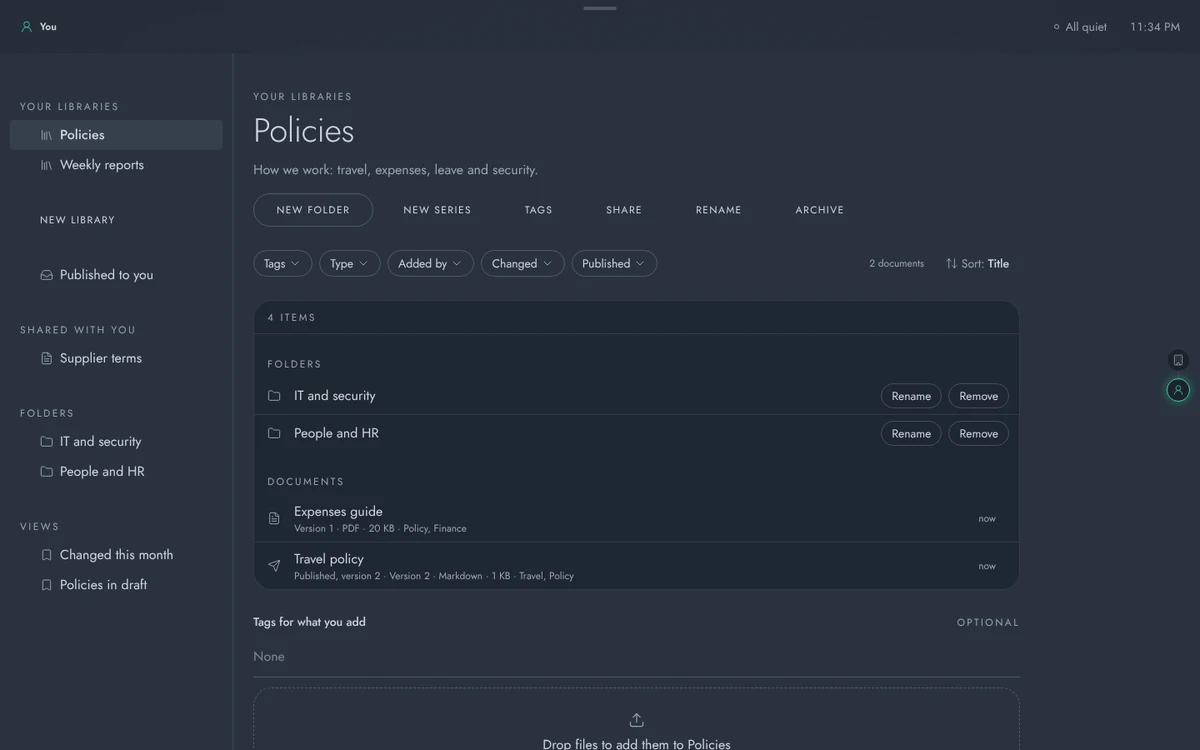
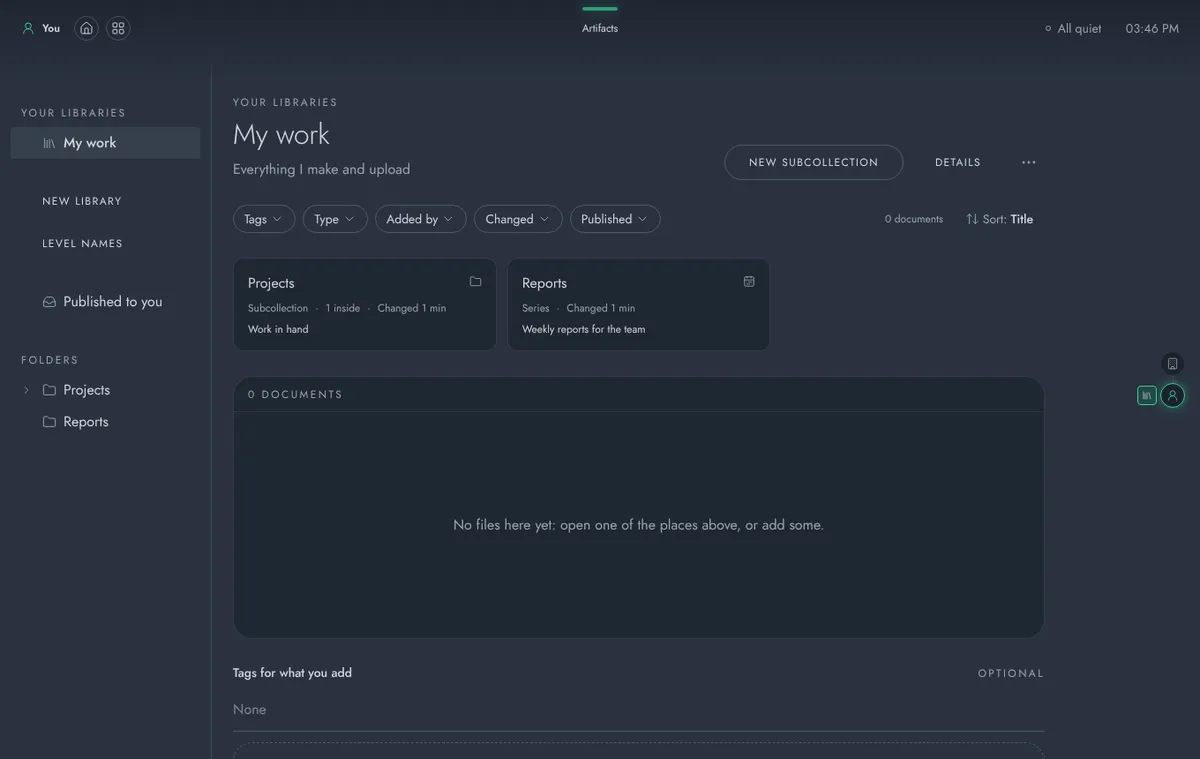
Artifacts guide: units, lifecycle, publishing up, links, with new screenshots
docs/folio.md now describes one shape for every library (and Level names),
the file lifecycle, publishing up the floors (live window, further up, one
owner, one place, taking back, From below), links, and folder tags and
sharing, with new screenshots from the running app. A floor's name reads in
a sentence ("Up from your own floor"), and the reader's link to where a
file sits is styled as a quiet link. Part of PER-171.

Claude-Session: https://claude.ai/code/session_01WJNQkabRVoF72vhqnMf8Xc

diff --git a/apps/folio/frontend/src/folio-share.ts b/apps/folio/frontend/src/folio-share.ts
@@ -53,7 +53,7 @@ export const explainPayload = (access: Access, thing: { id: string; title: strin
         level: 'read' as const,
         since: p.at,
         via: p.record.id === thing.id ? 'published up to them' : 'published up inside something',
-        chain: p.chain,
+        chain: p.chain.map(inSentence),
         shows: p.filter.map(stateName),
       })),
       ...access.grants.map((g) => shared(g, `shared with this ${thing.kind}`)),
@@ -65,9 +65,12 @@ export const explainPayload = (access: Access, thing: { id: string; title: strin
 /** A list in words: "Complete", "Complete and Issued", "In review, Complete and Issued". */
 const listWords = (list: readonly string[]) => (list.length < 2 ? (list[0] ?? '') : `${list.slice(0, -1).join(', ')} and ${list.at(-1)}`);
 
+/** A floor's name in the middle of a sentence: "your own floor" and "the org" aren't names. */
+const inSentence = (floor: string) => (floor === 'Your own floor' || floor === 'The org' ? floor[0].toLowerCase() + floor.slice(1) : floor);
+
 /** How a step up the floors reaches them: "Up from Payroll through Finance · Shows Complete and Issued". */
 export const upLine = (p: { chain: readonly string[]; filter: readonly ContentState[] }) => {
-  const [from, ...through] = p.chain;
+  const [from, ...through] = p.chain.map(inSentence);
   return [from ? `Up from ${from}${through.length ? ` through ${listWords(through)}` : ''}` : '', `Shows ${listWords(p.filter.map(stateName))}`].filter(Boolean).join(' · ');
 };
 

diff --git a/apps/folio/frontend/src/folio-reader.ts b/apps/folio/frontend/src/folio-reader.ts
@@ -420,6 +420,9 @@ export class FolioReader extends LitElement {
         folio-reader .label { font-size: var(--type-label); line-height: var(--leading-label); letter-spacing: var(--tracking-label); text-transform: uppercase; color: var(--ink-muted); }
         folio-reader .folio-link { all: unset; cursor: pointer; text-decoration: underline; text-underline-offset: 3px; }
         folio-reader .folio-link:focus-visible { outline: 1.5px solid var(--focus); outline-offset: 2px; }
+        folio-reader .folio-crumb { all: unset; cursor: pointer; font-size: var(--type-small); color: var(--ink-muted); }
+        folio-reader .folio-crumb:hover { color: var(--ink); text-decoration: underline; text-underline-offset: 3px; }
+        folio-reader .folio-crumb:focus-visible { outline: 1.5px solid var(--focus); outline-offset: 2px; }
         @media (max-width: 1100px) {
           folio-reader { grid-template-columns: minmax(0, 1fr); }
           folio-reader .folio-reader-contents, folio-reader .folio-reader-side { position: static; max-height: none; }

diff --git a/docs/folio.md b/docs/folio.md
@@ -1,17 +1,19 @@
 # Artifacts: a guide for people and admins
 
-Artifacts is AUGUR's document libraries. (Its code name is Folio, which is still the name of its containers, its database schema and its address, `/folio`.) Every deployment runs it. It keeps a floor's documents in one place, shows each one as a page you can read, and puts the finished ones out to the people who need them.
+Artifacts is AUGUR's document libraries. (Its code name is Folio, which is still the name of its containers, its database schema and its address, `/folio`.) Every deployment runs it. It keeps a floor's documents in one place with the same shape everywhere, shows each one as a page you can read, and publishes them up the floors to the people who need them, in the states you choose.
 
 The first half of this guide is for everyone who uses it. The second half is for admins. How Artifacts is built, and its API, are in [its README](../apps/folio/README.md).
 
 - [Using Artifacts](#using-artifacts)
   - [Getting around](#getting-around)
-  - [Libraries and folders](#libraries-and-folders)
+  - [Libraries and their shape](#libraries-and-their-shape)
   - [Adding documents](#adding-documents)
+  - [Lifecycle](#lifecycle)
   - [Finding things](#finding-things)
   - [Reading](#reading)
   - [Sharing](#sharing)
-  - [Publishing](#publishing)
+  - [Publishing up the floors](#publishing-up-the-floors)
+  - [Links](#links)
   - [Series](#series)
   - [From other apps](#from-other-apps)
 - [Running Artifacts (admins)](#running-artifacts-admins)
@@ -24,15 +26,34 @@ Artifacts opens straight into its own menu down the side: the floor's libraries,
 
 What Artifacts shows is always the floor you're on. The floor gauge at the right edge lights that floor and pins Artifacts beside it; point at it to see every floor you can go to, who sees what's on each, and which one Artifacts is showing. Going to another floor keeps you in Artifacts, at the start of that floor's libraries.
 
-### Libraries and folders
+### Libraries and their shape
 
 A library belongs to the floor it was made on: your own floor, a team's, or the org's. Everyone who can stand on that floor can read it and add to it, and the floor's leads manage it. Open Artifacts from its chapter in the menu of every app, or from its card on Home.
 
-![A library: folders, documents with their tags, and the library's views in the side rail](images/folio/library.webp)
+Every library has the same shape, top down. Each place in it is a **unit**:
+
+| Level | What it is | Holds |
+| --- | --- | --- |
+| **Collection** | The library itself | Subcollections, series and files |
+| **Subcollection** | A part of it, such as Projects | Series and files |
+| **Series** | A run of things that belong together, such as weekly Reports | Subseries and files |
+| **Subseries** | A part of a series | Files |
+| **File** | A document, with all its versions | |
+
+A level can be skipped (a file can sit straight in the collection) but never moved: a series never holds a subcollection. The org's leads can rename the levels for the whole org, from the org's floor, with **Level names** in the side rail. Everyone else sees what they're called there. A new name changes only the words, never the shape.
+
+![A library: its subcollections and series as cards, and the folders in the side rail](images/folio/library.webp)
 
 - **New library** makes one (a floor's leads). Give it a name and, if you like, a line saying what it's for.
-- **New folder** makes a folder at the top, or inside the folder you're in, up to six deep. A folder can be removed once it's empty.
+- **New subcollection**, **New series** and so on make the next level down inside the one you're in. The button offers only the levels that fit. A unit can be removed once it's empty.
+- **Details** shows a unit's metadata, its tags, its links, and its state: Open, Closed (kept as it is, nothing new goes in) or Archived. Whoever manages the library moves it on.
 - **Archive** takes a library off the floor's list. It deletes nothing.
+
+![A series: its files, each with its lifecycle state](images/folio/units.webp)
+
+![A unit's details: what it is, its tags, and its state](images/folio/details.webp)
+
+![Level names: what each level is called, and what it holds](images/folio/levels.webp)
 
 The side rail shows the floor's libraries. Under them are what's been published to you, what's been shared with you from other floors, and the open library's folders, saved views and series.
 
@@ -44,6 +65,18 @@ Artifacts keeps every file exactly as it was uploaded. Dropping a new file on a 
 
 Deleting a document takes it out of the library straight away. Its files are kept for a while (30 days, unless an admin changes it) and then removed for good. The activity log still names it after that.
 
+### Lifecycle
+
+Each version of a file has a lifecycle state, shown on its row and in the reader:
+
+- **In progress**: being worked on. Every new file starts here.
+- **In review**: ready for someone to check.
+- **Complete**: done.
+- **Issued**: the version that's out, for people to act on.
+- **Retired**: no longer in use. It's kept, with its history.
+
+Anyone who can change a file moves its newest version between In progress, In review and Complete. Issuing and retiring need manage on it. Every move is kept on its record. Publishing up uses these states: you choose which ones a floor above sees.
+
 ### Finding things
 
 The bar above the list narrows it down:
@@ -52,6 +85,7 @@ The bar above the list narrows it down:
 - by **type** of file,
 - by who **added** it,
 - by when it last **changed**,
+- by its **lifecycle** state,
 - by whether it's **published**,
 - by **series**.
 
@@ -61,7 +95,7 @@ Once a filter is on, the list looks in every folder below the one you're in. **S
 
 A set of filters can be saved as a **view**, which sits in the side rail for everyone using the library. "Policies in draft" is one example.
 
-There are two kinds of tag. Every library shares **the org's tags**, such as Policy or Finance, which the leads on the org's floor keep. Each library can also have **its own tags**. A library's leads can let anyone in the library add tags.
+There are two kinds of tag. Every library shares **the org's tags**, such as Policy or Finance, which the leads on the org's floor keep. Each library can also have **its own tags**. A library's leads can let anyone in the library add tags. A folder can carry tags too, in its **Details**: they count for everything inside it when you filter.
 
 To look everywhere at once, open the centre menu (Ctrl K, or ⌘K on a Mac) and choose **Find**. It searches the titles, tags and text of every document you can read, along with everything that has been published to you.
 
@@ -71,7 +105,9 @@ To look everywhere at once, open the centre menu (Ctrl K, or ⌘K on a Mac) and 
 
 Opening a document shows it as a page of text. This is its **reader copy**, which Artifacts makes from the file, so it's the same whether the original was a PDF, a Word file or a web page. The headings make up the contents down the side, which follow along as you read. Use **Smaller** and **Larger** to change the text size, and **Wide page** to give long tables more room. Artifacts remembers where you were in a document.
 
-![The reader: contents on the left, the text in the middle, versions and actions on the right](images/folio/reader.webp)
+![The reader: contents on the left, the text in the middle, the version's lifecycle and actions on the right](images/folio/reader.webp)
+
+Above the title is where the file sits; press it to go back there. At the side are the version's lifecycle state (move it on from there), **Publish up the floors**, and its **Links**.
 
 **Download the original** gives you the file exactly as it was uploaded. Each heading and paragraph has its own address, so you can link straight to part of a document.
 
@@ -81,7 +117,7 @@ It can take a moment to make a reader copy. If one couldn't be made, the page sa
 
 ### Sharing
 
-Anyone who manages a library, or a document, can let others in with **Share**. You can share with a person, a team, a team and the teams below it, or the whole org, and choose how far they get in:
+Anyone who manages a library, a folder or a document can let others in with **Share**. You can share with a person, a team, a team and the teams below it, or the whole org, and choose how far they get in:
 
 | | Read | Edit | Manage |
 | --- | --- | --- | --- |
@@ -89,34 +125,48 @@ Anyone who manages a library, or a document, can let others in with **Share**. Y
 | Add documents, folders and versions, and change any document | | yes | yes |
 | Share it, rename or archive it | | | yes |
 
-Whoever manages a library can also share one folder with **Share** inside it. Whoever it's shared with sees everything inside that folder, the folders below it too, for as long as it stays inside: a document moved out of the folder is no longer shared with them. They find it under **Shared with you**, and the library itself stays closed to them. A document's **Share** lists anyone who reaches it through a folder it's in.
+Whoever manages a library can also share one folder with **Share** inside it. Whoever it's shared with sees everything inside that folder, the folders below it too, for as long as it stays inside: a document moved out of the folder is no longer shared with them. They find it under **Shared with you**, and the library itself stays closed to them. A document's **Share** lists anyone who reaches it through a folder it's in, and the floors it's **Published up to**, each with the floors it came up through and the states it shows there.
 
-![Who can see a document, and sharing it with someone](images/folio/share.webp)
+![Who can see a document: no one shared with it alone, and the org through its being published up](images/folio/share.webp)
 
-Whatever has been shared with you appears under **Shared with you** on every floor of yours. Anyone who can see something can also see who else can. **Who can open this, explained** opens Auspex over Artifacts: each person and team with how many people that is, how it reaches them (its floor, its library, or shared with it alone), and everyone else at the org who can't.
+Whatever has been shared with you appears under **Shared with you** on every floor of yours. Anyone who can see something can also see who else can. **Who can open this, explained** opens Auspex over Artifacts: each person and team with how many people that is, how it reaches them (its floor, its library, a folder it's in, shared with it alone, or published up, with the floors it came through and what it shows), and everyone else at the org who can't.
 
-### Publishing
+### Publishing up the floors
 
-A document is published **up the floors**: press **Publish up the floors** on it, choose a floor above its own, and choose which lifecycle states it shows there (Complete and Issued at first). The floor above then sees each version as it reaches those states. A series' issues are the exception: each new issue still goes out to the series' audience, one version at a time, as below.
+Any unit, from a single file to a whole collection, can be **published up** to a floor above the one it's on: a team you're in, a team above that, or the org. Press **Publish up** on a place, or **Publish up the floors** in the reader. Choose the floor, and choose which lifecycle states it shows there: say Complete and Issued for the org, or everything but Retired for your own team.
 
-What was published the old way before (one version out to an audience) is moved onto publishing up by itself, soon after the upgrade. A team or the org above the document's floor gets it published up, showing Issued. Its own floor and the teams below it already see it. Anyone else it went to, such as a team beside it, keeps it as a share. The old publication ends with "Moved onto publishing up the floors." on its record. Until it's moved, it reads as it did.
+![Publishing a series up to the org, showing Complete and Issued](images/folio/publish-up.webp)
 
-For an issue:
+- **It's a live window, not a copy.** New files, and new versions, show up there by themselves as they reach the states you chose. Publishing a series publishes everything in it, now and later.
+- **Further up.** A floor that received something can publish it on up, but never showing more than it was shown.
+- **One owner.** The highest floor it has reached owns it and decides about it from then on. While it's only on its own floor, its own floor does. Owning it doesn't move the right to change the files: they stay with whoever can edit them where they were made. The whole chain, who published it, from where, to where, when and showing what, is kept.
+- **One place.** Everyone sees a published unit in one place only: the highest floor it reaches them on. The floors below it don't hide it; they say where it went.
+- **Taking it back** from a floor takes it back from every floor it went on to from there. Artifacts says which before it does.
 
-![Publishing a version to everyone in the org, with a note](images/folio/publish.webp)
+Everyone on the floor it goes to is told once, when it first arrives. There it waits under **From below** until one of the floor's leads gives it a place in their library, where its level fits.
+
+Whoever manages a unit publishes it up from its own floor; a floor that received it publishes it on up through its leads, from that floor. Publishing to the org needs the **publisher** role.
+
+What was published the old way before (one version out to an audience) is moved onto publishing up by itself, soon after the upgrade. A team or the org above the document's floor gets it published up, showing Issued. Its own floor and the teams below it already see it. Anyone else it went to, such as a team beside it, keeps it as a share. The old publication ends with "Moved onto publishing up the floors." on its record.
+
+A series' issues are the exception: each new issue still goes out to the series' audience, one version at a time.
+
+![Publishing an issue to everyone in the org, with a note](images/folio/publish.webp)
 
 - Press **Publishing** on the issue to choose the version and the audience. You can add a note, which goes out with the notice.
 - Publishing it again replaces what was out with the new version.
 - **Withdraw** takes it back. You can give a reason.
 
-Every time a document was published stays on its record.
-
-A team's leads publish to their own team and the teams below it, and the org's leads publish to any team. Publishing to the whole org, to teams beyond your floor, or from your own floor needs the **publisher** role. To show one person a document, share it with them instead.
+Every time something was published stays on its record. To show one person a document, share it with them instead.
 
 **Published to you** lists everything that has been put out to you, newest first. Artifacts' card on Home says how much is new since you last looked. For a floor's leads, it also says how many drafts are waiting.
 
 ![Published to you](images/folio/published.webp)
 ![Artifacts' card on Home](images/folio/home.webp)
+
+### Links
+
+A unit can be linked to other things, from its **Details** or the reader's **Links**: another unit in Artifacts (**relates to**, **supersedes**, **responds to**), a thing in Data Atlas (**about**, such as a ship), or an intent in Mandate (**serves**). The link reads both ways: the other end shows what links to it. A linked thing you can't open stays in the list and says so. Whoever can change a unit adds and removes its links.
 
 ### Series
 
@@ -130,7 +180,7 @@ Turn on **Tell me of each new issue** to be told each time an issue comes out. I
 
 ### From other apps
 
-Other apps can open Artifacts' documents and ask you to pick one. When an app asks for a document, Artifacts opens over it as a picker. Find one by typing, or look through a library. Only the kinds of file that app can take are offered.
+Other apps can open Artifacts' documents, libraries and units (`unit.open`, at any level), and ask you to pick a document. When an app asks for a document, Artifacts opens over it as a picker. Find one by typing, or look through a library. Only the kinds of file that app can take are offered.
 
 ![Picking a document for another app](images/folio/picker.webp)
 

diff --git a/apps/folio/README.md b/apps/folio/README.md
@@ -134,7 +134,7 @@ All under `/api/folio/v1`, sent with the floor's `X-Workspace-Id` (`ctx.fetch` a
 | `GET /libraries/:id/documents/:doc/versions/:n/reader/images/:name` | A picture the reader copy shows (`images/1.png`) |
 | `GET /libraries/:id/documents/:doc/versions/:n/thumbnail`, `…/text` | Its first page as a PNG (PDFs), and its words as plain text |
 | `POST /libraries/:id/documents/:doc/versions/:n/reader/retry` | Ask again for a reader copy that failed |
-| `GET /libraries/:id/access`, `GET /libraries/:id/documents/:doc/access` | Who may see it: its floor, who has been let in (for a document, into it and into its library), and whether the caller may share it |
+| `GET /libraries/:id/access`, `GET /libraries/:id/documents/:doc/access` | Who may see it: its floor, who has been let in (for a document, into it and into its library), the floors it's published up to (`placed`: who each lets in, its filter, and the floors it came up through), and whether the caller may share it |
 | `PUT /libraries/:id/access/:principal` `{level}`, `DELETE …` | Let a person or team into the library that far (read, edit or manage), or take them out (managers). `:principal` is `person:<id>`, `team:<id>`, `tree:<id>` or `org` |
 | `PUT /libraries/:id/documents/:doc/access/:principal` `{level}`, `DELETE …` | The same for one document (whoever manages it) |
 | `GET /libraries/:id/folders/:folder/access` | Who may see a folder: its floor, who has been let into its library, and who into the folder |

diff --git a/.changeset/folio-guide-units.md b/.changeset/folio-guide-units.md
@@ -1,0 +1,5 @@
+---
+'@apps/folio-frontend': patch
+---
+
+The guide (docs/folio.md) describes Artifacts as it is now: one shape for every library, the lifecycle, publishing up the floors, links and level names, with new screenshots. The reader's "where it sits" link above the title is styled as a quiet link, not a bare button.
